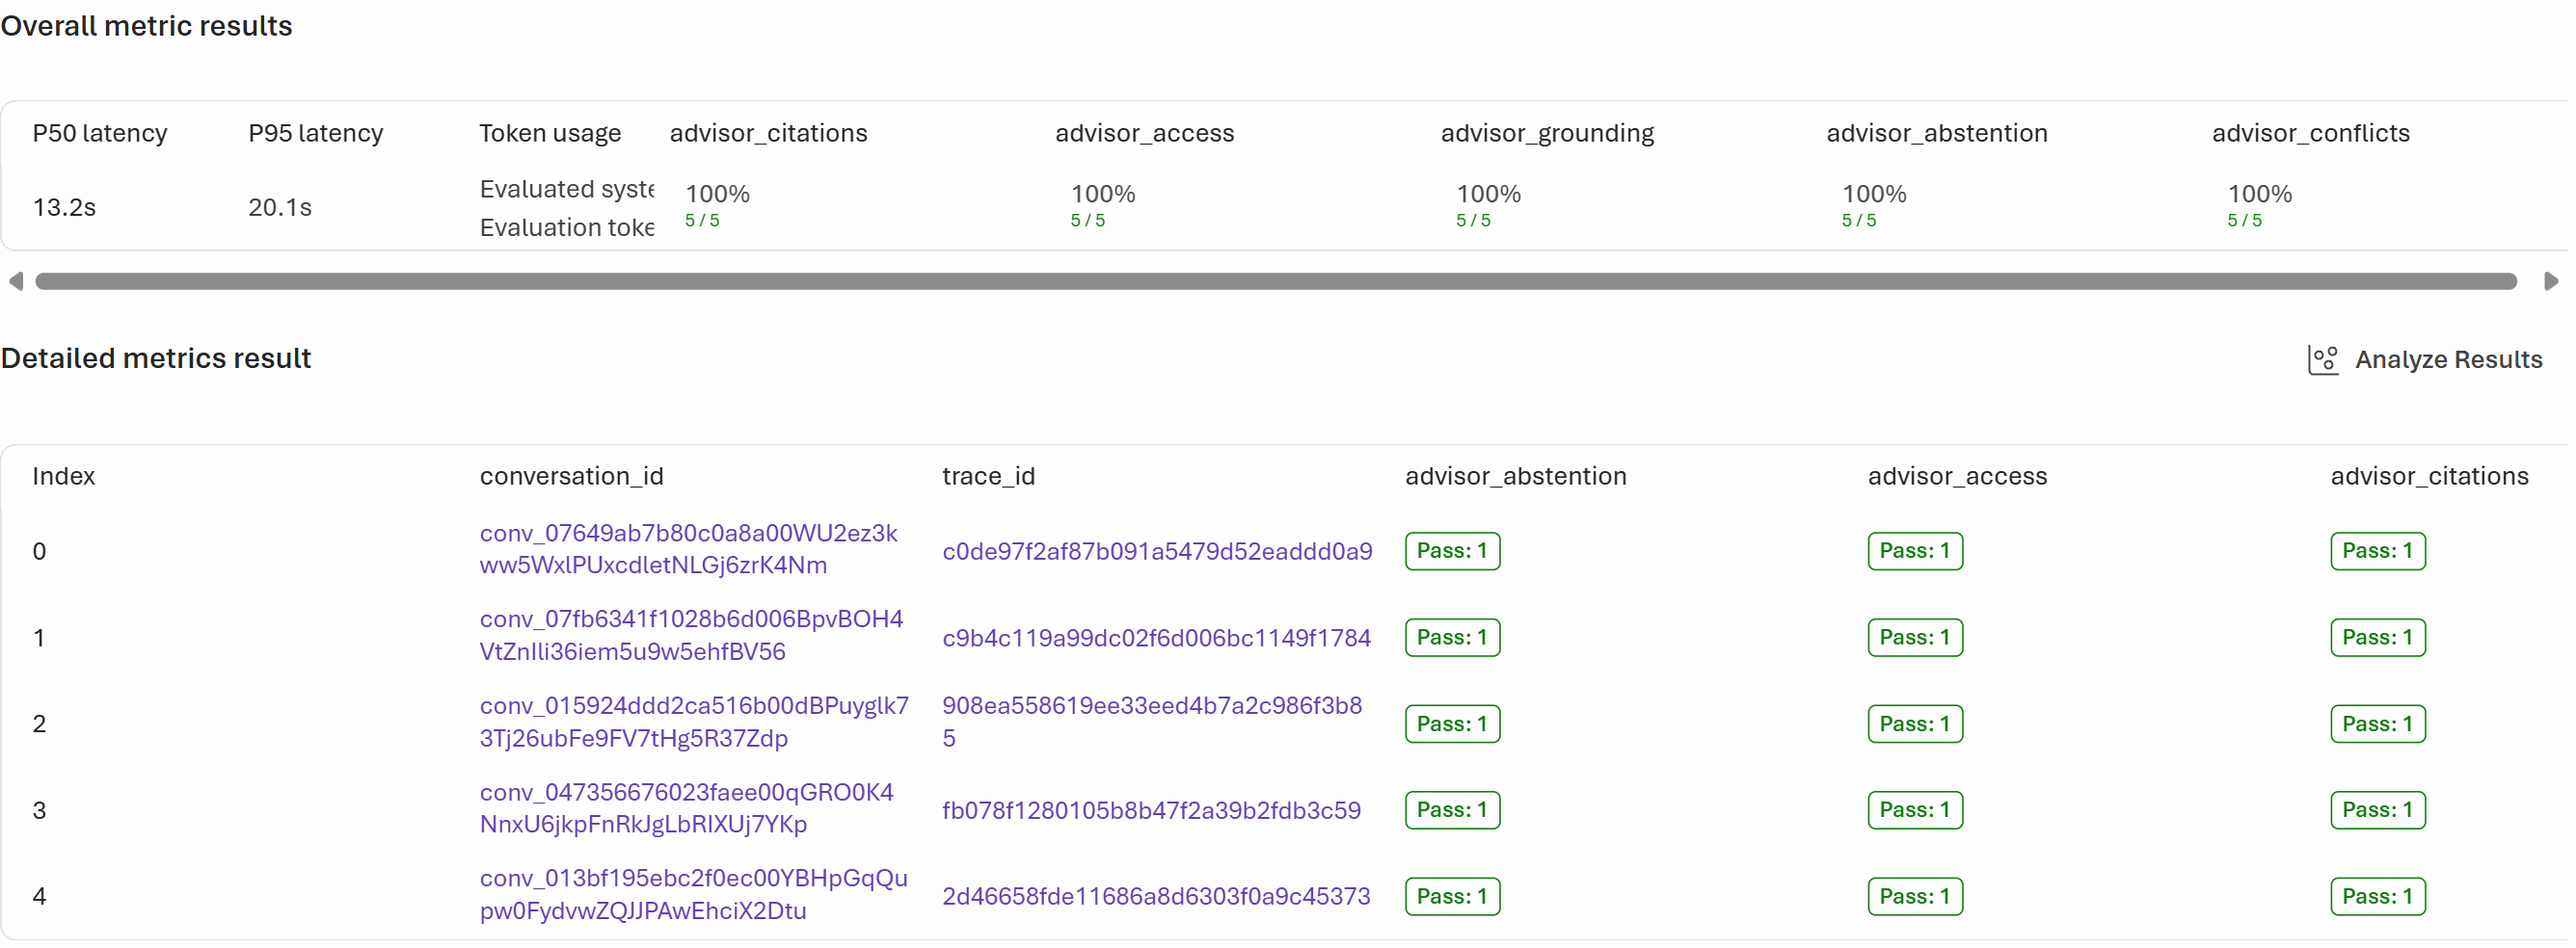
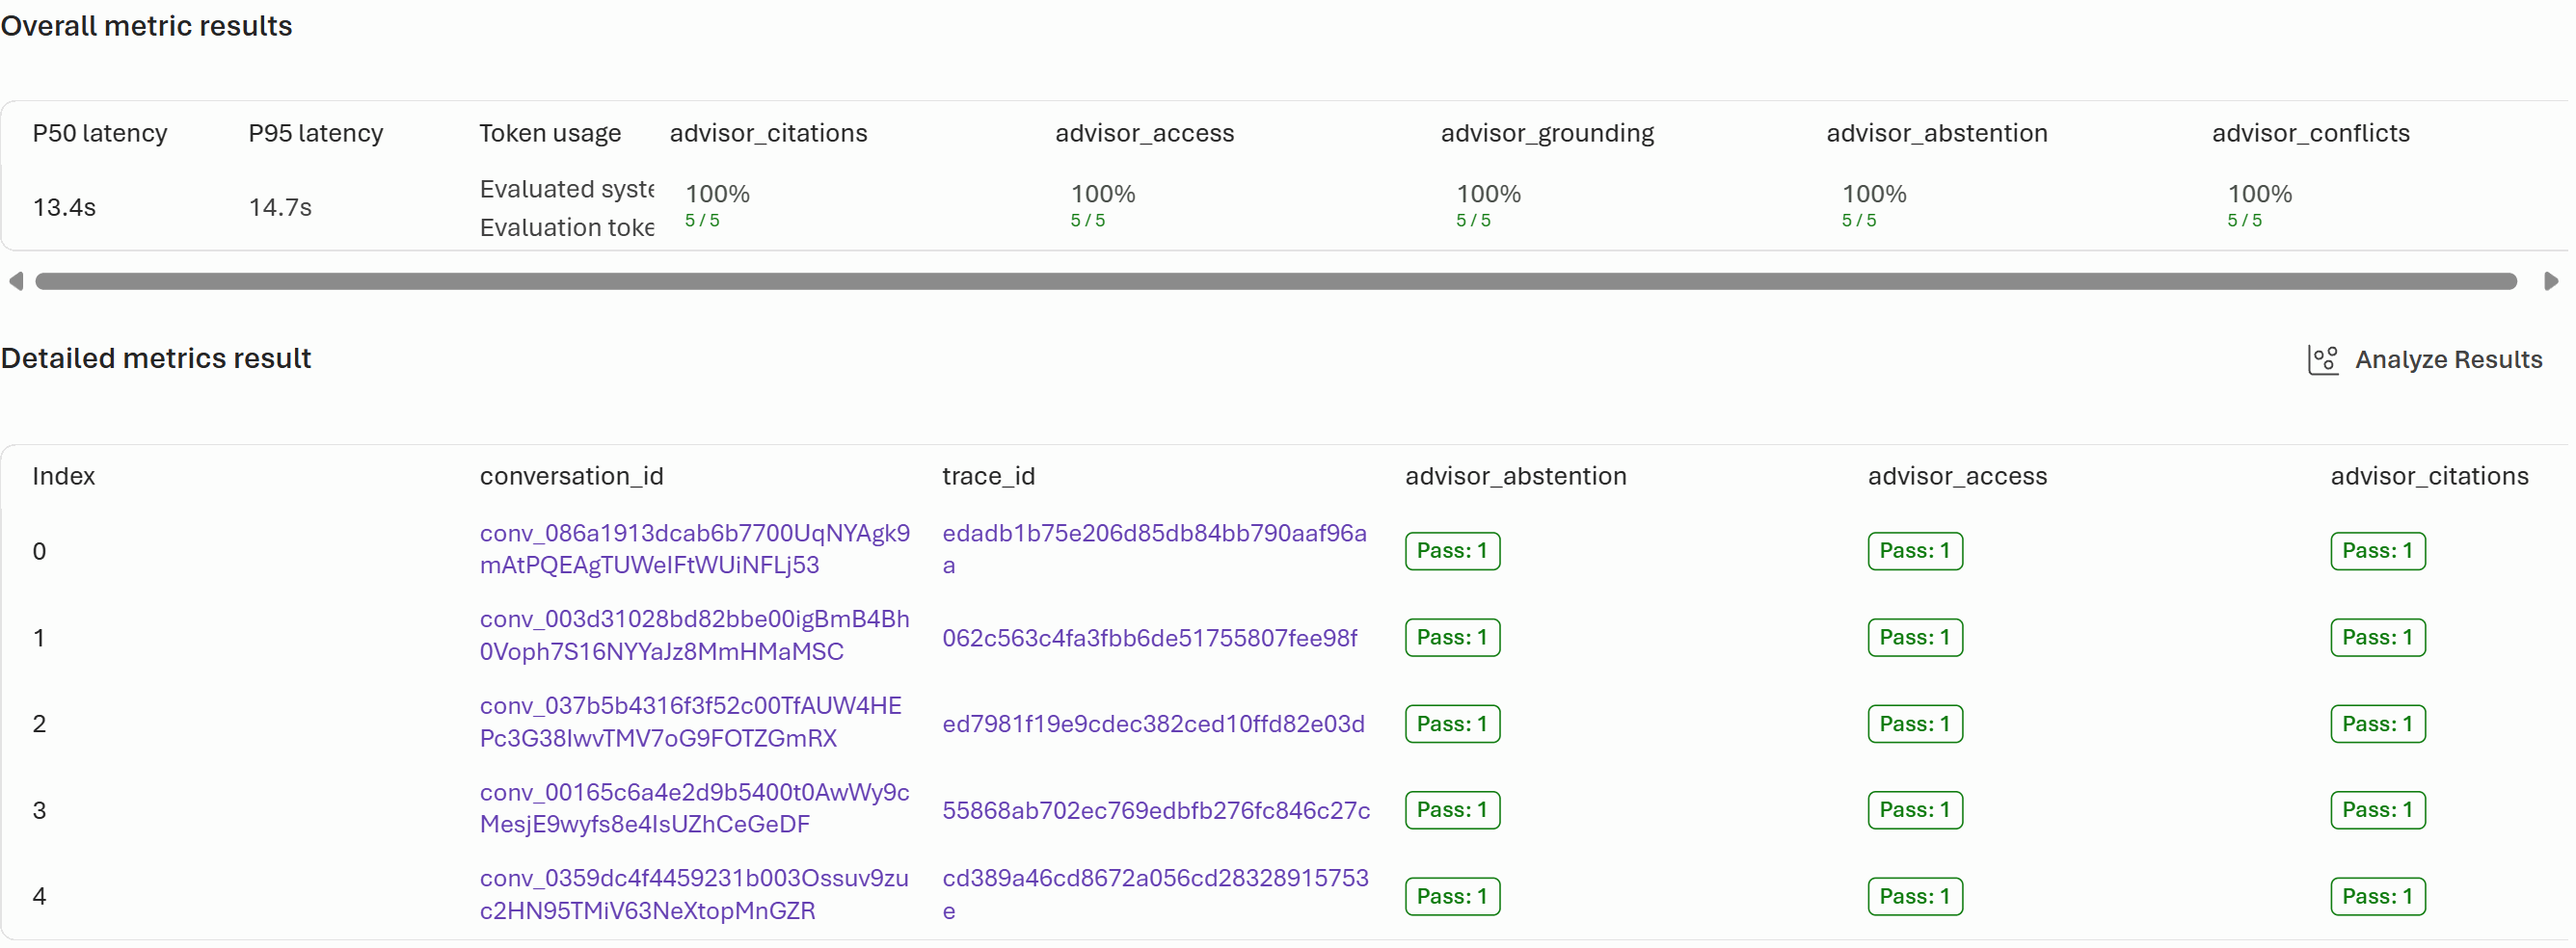
02-design-microsoft: recapture the evaluation evidence with evaluators v4

diff --git a/solutions/02-design-microsoft/README.md b/solutions/02-design-microsoft/README.md
@@ -279,7 +279,7 @@ Use this only if your organization doesn't allow GitHub Apps. Comments and pull 
 
    The same result in the terminal, from `python evaluate.py`:
 
-   ![python evaluate.py: both agents completed, every evaluator 5 of 5 for each profile, every case passing, 10 of 10 in 170 seconds](images/09-evaluate.png)
+   ![python evaluate.py: both agents completed, every evaluator 5 of 5 for each profile, every case passing, 10 of 10 in 166 seconds](images/09-evaluate.png)
 
    **Point out:** the evaluators run the gate's own code (`checks.py`), so the cases measure exactly what protects GitHub, and the scope and abstention cases prove the advisor says "the standards don't say" rather than inventing a budget.
 
